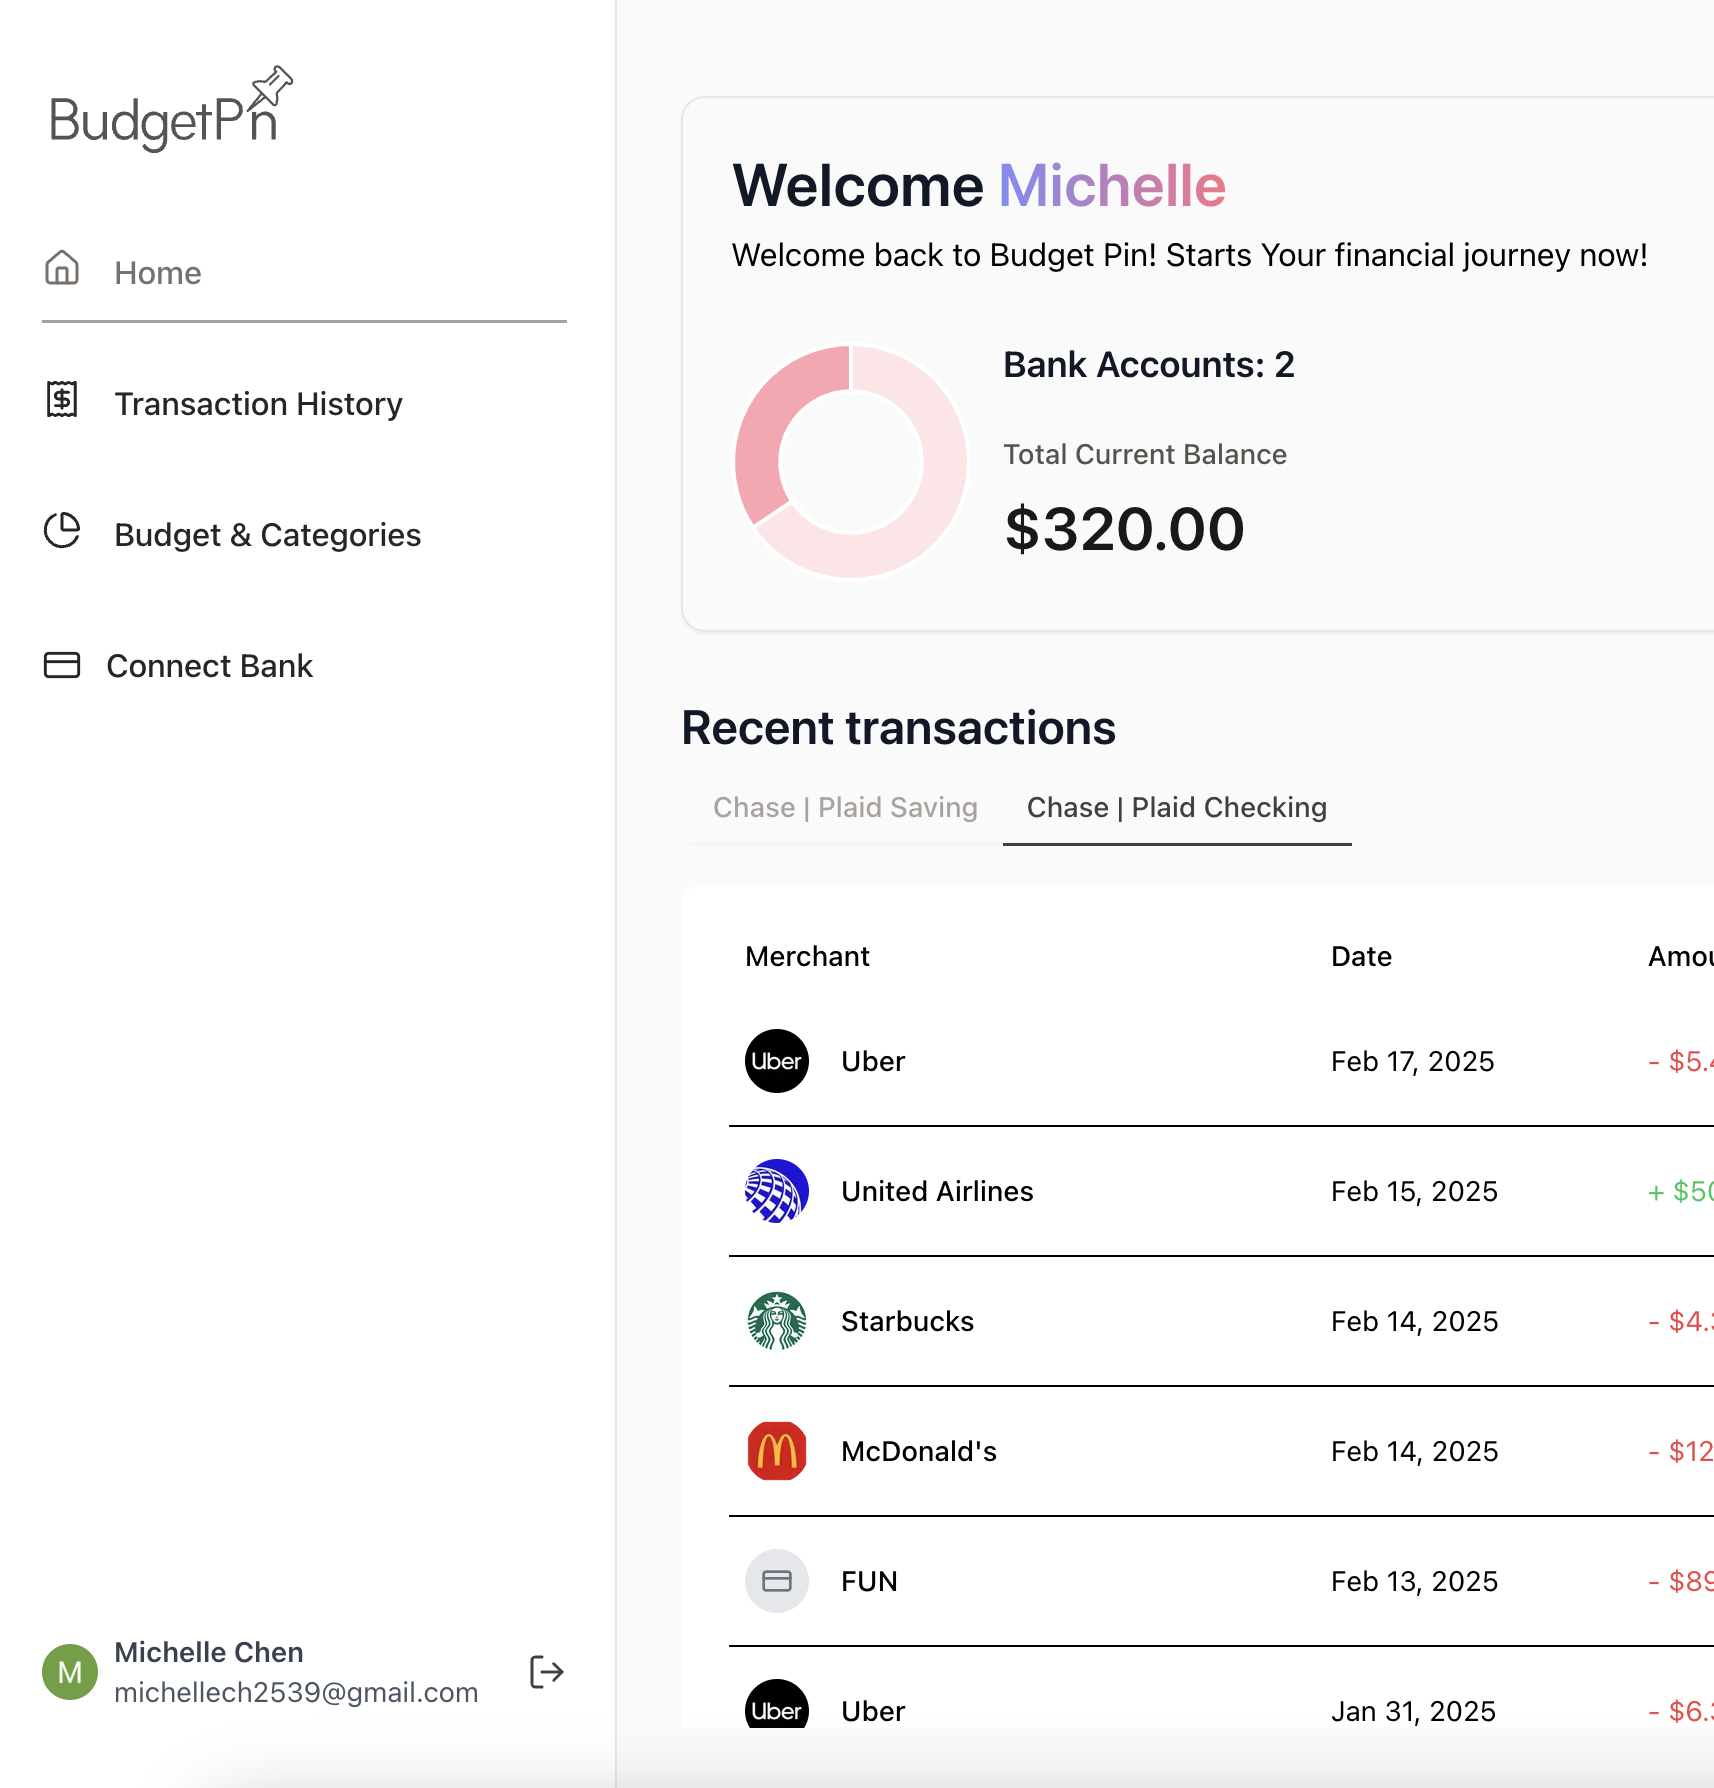
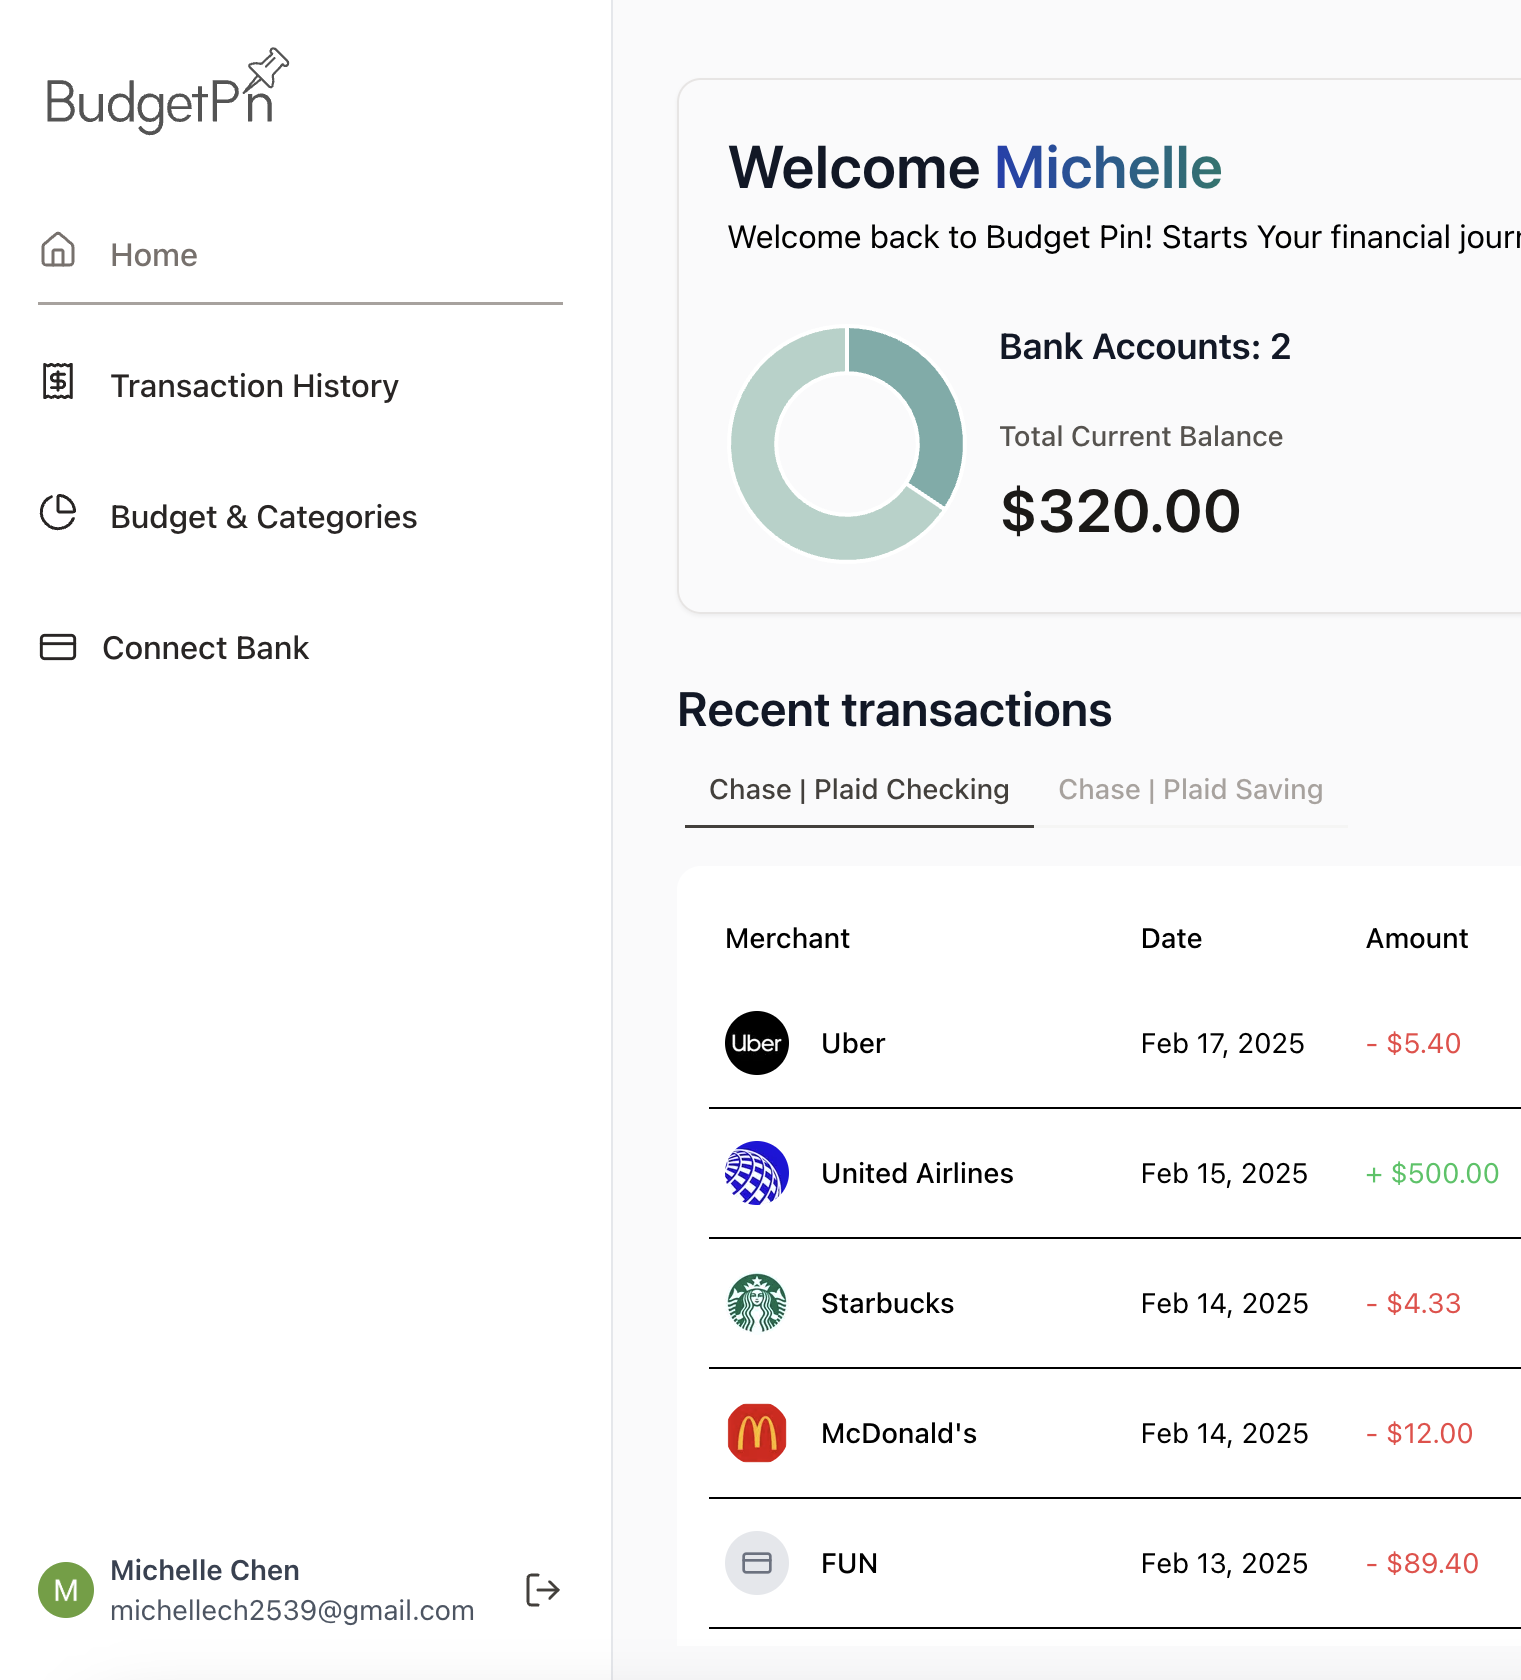
style: Update UI colors and gradients for improved aesthetics

diff --git a/constants/index.ts b/constants/index.ts
@@ -22,14 +22,14 @@ export const sidebarLinks = [
 
 /* ------------------------------ Color Palette ----------------------------- */
 export const colorPalette = [
-  "#FFE4E6",
-  "#FDA4AF",
-  "#F7CFCC",
-  "#F2C2CE",
-  "#D7C0DC",
-  "#F2D3DD",
-  "#EFD2ED",
-  "#F6BEBE",
+  "#75aca8",
+  "#b1d2c8",
+  "#cbe4de",
+  "#4c888b",
+  // "#D7C0DC",
+  // "#F2D3DD",
+  // "#EFD2ED",
+  // "#F6BEBE",
 ];
 
 /* ------------------------------ Transaction Categories ----------------------------- */

diff --git a/app/(auth)/layout.tsx b/app/(auth)/layout.tsx
@@ -8,7 +8,7 @@ export default function RootLayout({
   return (
     <main className="flex min-h-screen w-full justify-between items-center">
       {children}
-      <div className="flex h-screen w-full sticky top-0 items-center justify-end bg-[#f2f1f4] max-lg:hidden">
+      <div className="flex h-screen w-full sticky top-0 items-center justify-end bg-[#f2f3f3] max-lg:hidden">
         <div>
           <Image
             src="/images/home-page-image.png"

diff --git a/components/HeaderBox/HeaderBox.tsx b/components/HeaderBox/HeaderBox.tsx
@@ -16,7 +16,7 @@ const HeaderBox = async ({
       <h1 className="text-24 lg:text-30 font-semibold text-gray-900">
         {title}{" "}
         {type === "greeting" && (
-          <span className="bg-gradient-to-r from-indigo-400 to-rose-400 text-transparent bg-clip-text">
+          <span className="bg-gradient-to-r from-blue-800 to-teal-700 text-transparent bg-clip-text">
             {firstName}
           </span>
         )}
